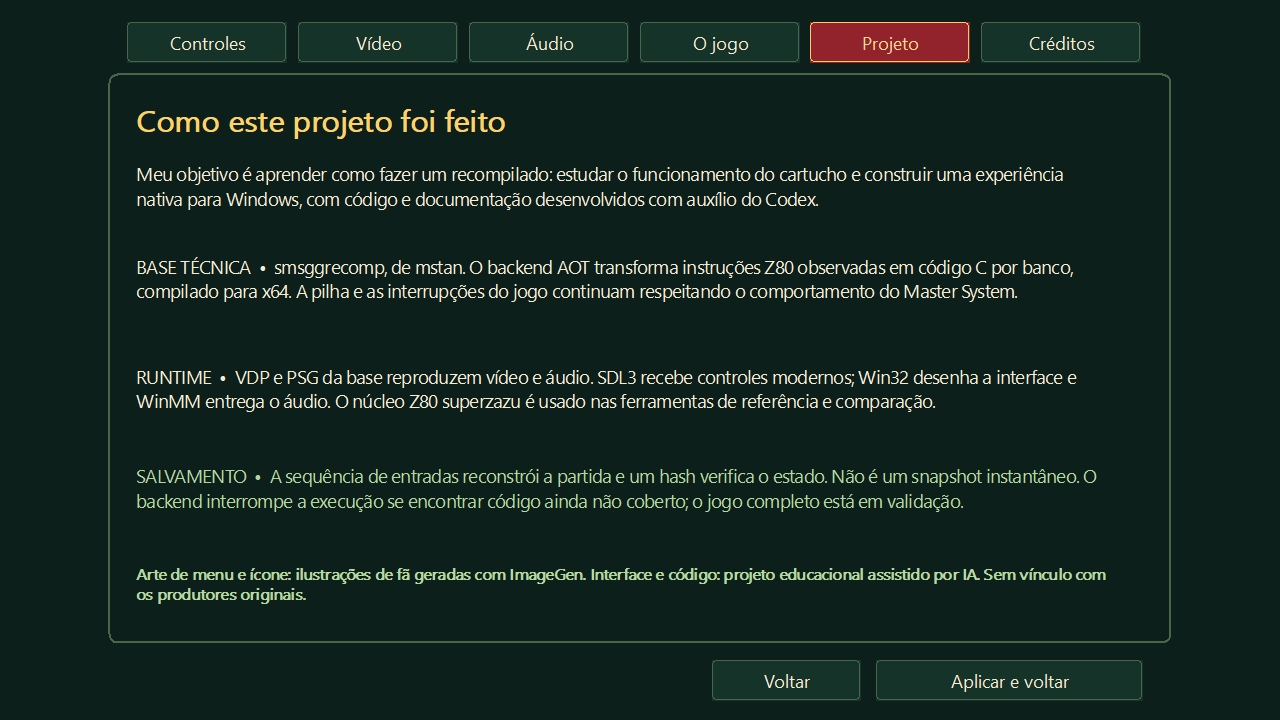
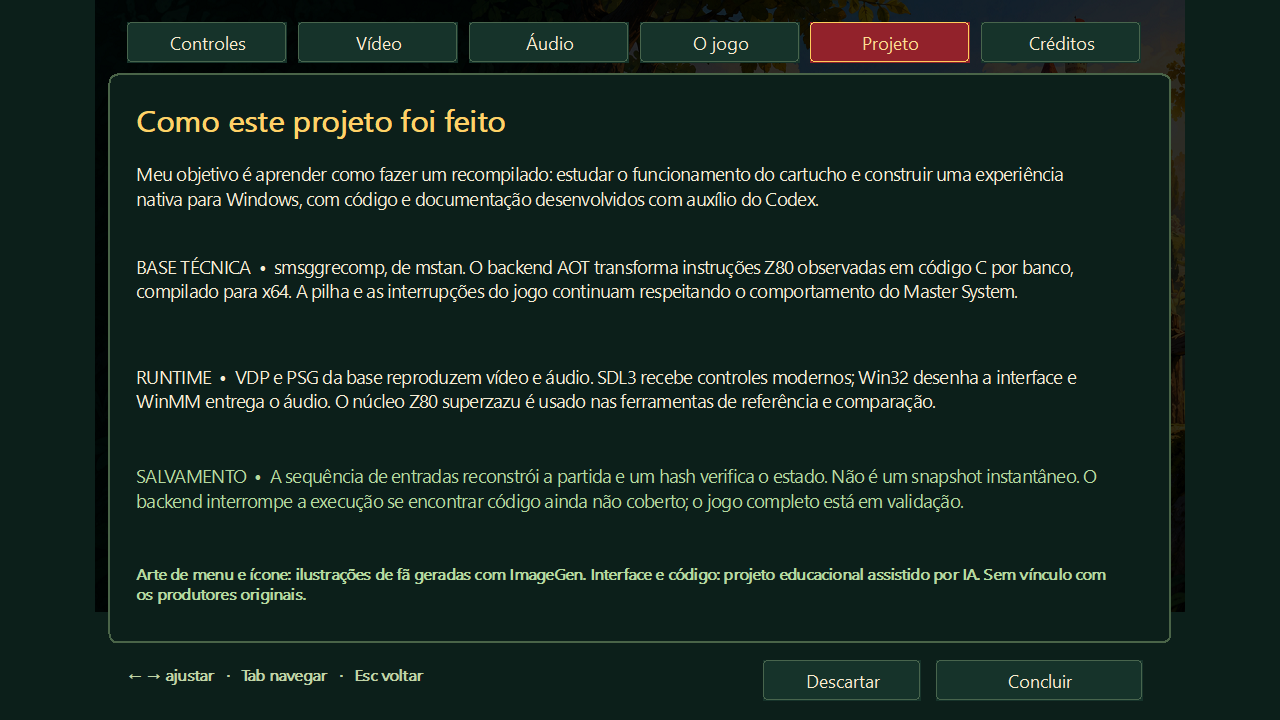
Integrate themed settings and inline selectors into the game interface

diff --git a/src/preferences.c b/src/preferences.c
@@ -1,6 +1,7 @@
 #define WIN32_LEAN_AND_MEAN
 #define COBJMACROS
 #include "preferences.h"
+#include "choice.h"
 #include <commctrl.h>
 #include <commdlg.h>
 #include <mmsystem.h>
@@ -19,7 +20,8 @@ static Preferences pending,original,*target;
 static InputDevice devices[32];static int device_count,item_count,current_tab,capture_key=-1,capture_pad=-1,release_pad;
 static HBRUSH paper;static HFONT normal,heading,caption,widget_font;static wchar_t asset_directory[32768];
 typedef struct{uint32_t *pixels;UINT w,h;BITMAPINFO info;} Picture;
-static Picture cover,advert;
+static Picture cover,advert,forest;
+static wchar_t feedback[200];
 static const wchar_t *actions[]={L"Cima",L"Baixo",L"Esquerda",L"Direita",L"Botão 1",L"Botão 2"};
 static const wchar_t *pad_actions[]={L"Botão 1",L"Botão 2",L"Pausa",L"Voltar no menu",L"Cima",L"Baixo",L"Esquerda",L"Direita"};
 static int clamp(int v,int low,int high){return v<low?low:v>high?high:v;}
@@ -74,14 +76,23 @@ RECT video_destination(int w,int h,int aspect,int scale,RECT *source){
 }
 typedef struct {int x,y,w,h,page;} Layout;
 static double ui_scale;static int ui_x,ui_y;
+static LRESULT CALLBACK hover_button(HWND hwnd,UINT msg,WPARAM wp,LPARAM lp,UINT_PTR id,DWORD_PTR data){
+    (void)id;(void)data;
+    if(msg==WM_MOUSEMOVE){if(!GetPropW(hwnd,L"hover")){SetPropW(hwnd,L"hover",(HANDLE)1);InvalidateRect(hwnd,NULL,FALSE);}TRACKMOUSEEVENT t={sizeof t,TME_LEAVE,hwnd,0};TrackMouseEvent(&t);}
+    if(msg==WM_MOUSELEAVE){RemovePropW(hwnd,L"hover");InvalidateRect(hwnd,NULL,FALSE);}
+    if(msg==WM_ERASEBKGND)return 1;
+    if(msg==WM_NCDESTROY){RemovePropW(hwnd,L"hover");RemoveWindowSubclass(hwnd,hover_button,1);}
+    return DefSubclassProc(hwnd,msg,wp,lp);
+}
 static void position_child(HWND item){Layout *l=(Layout*)GetPropW(item,L"layout");if(!l)return;
     double t=(GetTickCount()-page_started)/220.0;if(t>1)t=1;int offset=l->page?(int)(22*(1-t)*(1-t)):0;
     SetWindowPos(item,NULL,ui_x+(int)((l->x+offset)*ui_scale),ui_y+(int)(l->y*ui_scale),(int)(l->w*ui_scale),(int)(l->h*ui_scale),SWP_NOZORDER|SWP_NOACTIVATE);
 }
 static HWND child(const wchar_t *type,const wchar_t *text,DWORD style,int x,int y,int w,int h,int id,int page){
     if(!wcscmp(type,L"BUTTON"))style=(style&~15)|BS_OWNERDRAW;
-    if(!wcscmp(type,L"COMBOBOX"))style|=CBS_OWNERDRAWFIXED|CBS_HASSTRINGS;
+    if(!wcscmp(type,L"COMBOBOX")){type=L"MonicaChoice";style=WS_TABSTOP;}
     HWND item=CreateWindowW(type,text,WS_CHILD|WS_VISIBLE|style,x,y,w,h,dialog,(HMENU)(INT_PTR)id,GetModuleHandleW(NULL),NULL);
+    if(!wcscmp(type,L"BUTTON"))SetWindowSubclass(item,hover_button,1,0);
     Layout *l=malloc(sizeof *l);*l=(Layout){x,y,w,h,page};SetPropW(item,L"layout",l);SendMessageW(item,WM_SETFONT,(WPARAM)widget_font,FALSE);SetWindowTheme(item,L"",L"");position_child(item);return item;
 }
 static void discard(HWND item){free((void*)RemovePropW(item,L"layout"));DestroyWindow(item);}
@@ -94,7 +105,7 @@ void preferences_resize(void){if(!dialog)return;RECT r;GetClientRect(owner,&r);S
     for(HWND c=GetWindow(dialog,GW_CHILD);c;c=GetWindow(c,GW_HWNDNEXT)){position_child(c);SendMessageW(c,WM_SETFONT,(WPARAM)widget_font,FALSE);}DeleteObject(previous);InvalidateRect(dialog,NULL,FALSE);
 }
 static void label(const wchar_t *s,int x,int y,int w){widget(L"STATIC",s,0,x,y,w,28,0);}
-static HWND combo(int x,int y,int w,int id){return widget(L"COMBOBOX",L"",CBS_DROPDOWNLIST|WS_VSCROLL|WS_TABSTOP,x,y,w,220,id);}
+static HWND combo(int x,int y,int w,int id){return widget(L"COMBOBOX",L"",WS_TABSTOP,x,y,w,32,id);}
 static void option(HWND c,const wchar_t *s){SendMessageW(c,CB_ADDSTRING,0,(LPARAM)s);}
 static int selection(HWND c){return (int)SendMessageW(c,CB_GETCURSEL,0,0);}
 static void select_at(HWND c,int i){SendMessageW(c,CB_SETCURSEL,i,0);}
@@ -121,7 +132,7 @@ static void build_page(int page){
         label(L"BOTÕES DO CONTROLE SELECIONADO",600,304,390);
         int n=input_button_count();if(n<32)n=32;if(n>128)n=128;
         for(int i=0;i<8;i++){
-            label(pad_actions[i],600,342+i*32,135);pad_combos[i]=combo(738,337+i*32,170,200+i);wchar_t automatic[100],name[80];input_default_label(i,name,80);swprintf(automatic,100,L"Auto · %ls",name);option(pad_combos[i],automatic);
+            label(pad_actions[i],600,342+i*32,135);pad_combos[i]=combo(738,337+i*32,170,200+i);wchar_t name[80];input_default_label(i,name,80);option(pad_combos[i],name);
             for(int b=0;b<n;b++){wchar_t text[32];swprintf(text,32,L"Botão físico %d",b+1);option(pad_combos[i],text);}select_at(pad_combos[i],clamp(pending.buttons[i]+1,0,n));
             widget(L"BUTTON",L"Detectar",WS_TABSTOP,915,337+i*32,95,27,300+i);
         }
@@ -184,8 +195,8 @@ static LRESULT CALLBACK procedure(HWND hwnd,UINT msg,WPARAM wp,LPARAM lp){
     if(msg==WM_CTLCOLORSTATIC||msg==WM_CTLCOLORBTN||msg==WM_CTLCOLORLISTBOX||msg==WM_CTLCOLOREDIT){SetTextColor((HDC)wp,RGB(249,236,200));SetBkColor((HDC)wp,RGB(12,31,26));return (LRESULT)paper;}
     if(msg==WM_MEASUREITEM){((MEASUREITEMSTRUCT*)lp)->itemHeight=28;return TRUE;}
     if(msg==WM_DRAWITEM){DRAWITEMSTRUCT *d=(DRAWITEMSTRUCT*)lp;RECT r={0,0,d->rcItem.right-d->rcItem.left,d->rcItem.bottom-d->rcItem.top};HDC dc=CreateCompatibleDC(d->hDC);HBITMAP bitmap=CreateCompatibleBitmap(d->hDC,r.right,r.bottom);HGDIOBJ old=SelectObject(dc,bitmap);
-        int active=(d->itemState&(ODS_SELECTED|ODS_FOCUS))!=0;int tab=(int)d->CtlID-600;if(tab>=0&&tab<6)active=tab==current_tab;
-        HBRUSH brush=CreateSolidBrush(active?RGB(146,34,43):RGB(22,51,42));FillRect(dc,&r,brush);DeleteObject(brush);
+        int active=(d->itemState&(ODS_SELECTED|ODS_FOCUS))!=0;int hover=GetPropW(d->hwndItem,L"hover")!=NULL;int tab=(int)d->CtlID-600;if(tab>=0&&tab<6)active=tab==current_tab;
+        HBRUSH brush=CreateSolidBrush(active?RGB(146,34,43):hover?RGB(37,67,49):RGB(22,51,42));FillRect(dc,&r,brush);DeleteObject(brush);
         HPEN pen=CreatePen(PS_SOLID,1,active?RGB(255,205,91):RGB(72,101,77));HGDIOBJ op=SelectObject(dc,pen),ob=SelectObject(dc,GetStockObject(NULL_BRUSH));RoundRect(dc,0,0,r.right-1,r.bottom-1,8,8);SelectObject(dc,op);SelectObject(dc,ob);DeleteObject(pen);
         wchar_t text[512]=L"";if(d->CtlType==ODT_COMBOBOX){if(d->itemID!=(UINT)-1)SendMessageW(d->hwndItem,CB_GETLBTEXT,d->itemID,(LPARAM)text);}else GetWindowTextW(d->hwndItem,text,512);
         if(d->CtlID==42)swprintf(text,512,pending.muted?L"[✓]  Áudio silenciado":L"[  ]  Silenciar áudio");
@@ -194,7 +205,9 @@ static LRESULT CALLBACK procedure(HWND hwnd,UINT msg,WPARAM wp,LPARAM lp){
     }
     if(msg==WM_PAINT||msg==WM_PRINTCLIENT){PAINTSTRUCT ps;HDC screen=msg==WM_PAINT?BeginPaint(hwnd,&ps):(HDC)wp;RECT r;GetClientRect(hwnd,&r);HDC dc=CreateCompatibleDC(screen);HBITMAP bitmap=CreateCompatibleBitmap(screen,r.right,r.bottom);HGDIOBJ old=SelectObject(dc,bitmap);FillRect(dc,&r,paper);
         SetMapMode(dc,MM_ANISOTROPIC);SetWindowExtEx(dc,1060,700,NULL);SetViewportExtEx(dc,(int)(1060*ui_scale),(int)(700*ui_scale),NULL);SetViewportOrgEx(dc,ui_x,ui_y,NULL);
+        picture_draw(dc,&forest,0,0,1060,700);
         rounded(dc,14,72,1032,554,RGB(12,31,26),RGB(74,100,72));
+        draw_text(dc,32,646,530,36,feedback[0]?feedback:L"← → ajustar   ·   Tab navegar   ·   Esc voltar",caption,RGB(190,211,165));
         double t=(GetTickCount()-page_started)/220.0;if(t>1)t=1;SetViewportOrgEx(dc,ui_x+(int)(22*(1-t)*(1-t)*ui_scale),ui_y,NULL);
         if(current_tab==0)draw_pad(dc);
         if(current_tab==3){
@@ -241,7 +254,7 @@ static LRESULT CALLBACK procedure(HWND hwnd,UINT msg,WPARAM wp,LPARAM lp){
             else if(pressed&(INPUT_UP|INPUT_DOWN))SetFocus(GetNextDlgTabItem(hwnd,focus,!!(pressed&INPUT_UP)));
             else if(focus && (pressed&(INPUT_LEFT|INPUT_RIGHT|INPUT_A))){
                 wchar_t type[32];GetClassNameW(focus,type,32);
-                if(!wcscmp(type,L"ComboBox")){int count=(int)SendMessageW(focus,CB_GETCOUNT,0,0);int value=selection(focus);if(count>0){select_at(focus,(value+(pressed&INPUT_LEFT?count-1:1))%count);SendMessageW(hwnd,WM_COMMAND,MAKEWPARAM(GetDlgCtrlID(focus),CBN_SELCHANGE),(LPARAM)focus);InvalidateRect(focus,NULL,FALSE);}}
+                if(!wcscmp(type,L"MonicaChoice")){int count=(int)SendMessageW(focus,CB_GETCOUNT,0,0);int value=selection(focus);if(count>0){select_at(focus,(value+(pressed&INPUT_LEFT?count-1:1))%count);SendMessageW(hwnd,WM_COMMAND,MAKEWPARAM(GetDlgCtrlID(focus),CBN_SELCHANGE),(LPARAM)focus);InvalidateRect(focus,NULL,FALSE);}}
                 else if(pressed&INPUT_A)SendMessageW(focus,BM_CLICK,0,0);
             }
         }
@@ -264,11 +277,11 @@ static LRESULT CALLBACK procedure(HWND hwnd,UINT msg,WPARAM wp,LPARAM lp){
         if(id==51)ShellExecuteW(hwnd,L"open",L"https://www.smspower.org/Games/MonicaNoCasteloDoDragao-SMS",NULL,NULL,SW_SHOWNORMAL);
     }
     if(msg==WM_CLOSE){input_select(original.device);input_configure(original.buttons);input_set_deadzone(original.deadzone);closing=1;screen_started=GetTickCount();return 0;}
-    if(msg==WM_DESTROY){for(HWND c=GetWindow(hwnd,GW_CHILD);c;c=GetWindow(c,GW_HWNDNEXT))free((void*)RemovePropW(c,L"layout"));KillTimer(hwnd,1);dialog=NULL;SendMessageW(owner,PREFS_CLOSED,0,0);InvalidateRect(owner,NULL,FALSE);DeleteObject(widget_font);widget_font=NULL;DeleteObject(normal);DeleteObject(heading);DeleteObject(caption);DeleteObject(paper);free(cover.pixels);free(advert.pixels);memset(&cover,0,sizeof cover);memset(&advert,0,sizeof advert);return 0;}
+    if(msg==WM_DESTROY){for(HWND c=GetWindow(hwnd,GW_CHILD);c;c=GetWindow(c,GW_HWNDNEXT))free((void*)RemovePropW(c,L"layout"));KillTimer(hwnd,1);dialog=NULL;SendMessageW(owner,PREFS_CLOSED,0,0);InvalidateRect(owner,NULL,FALSE);DeleteObject(widget_font);widget_font=NULL;DeleteObject(normal);DeleteObject(heading);DeleteObject(caption);DeleteObject(paper);free(cover.pixels);free(advert.pixels);free(forest.pixels);memset(&forest,0,sizeof forest);memset(&cover,0,sizeof cover);memset(&advert,0,sizeof advert);return 0;}
     return DefWindowProcW(hwnd,msg,wp,lp);
 }
 void preferences_open(HWND parent,Preferences *p,int tab,const wchar_t *assets){
-    if(dialog){SetFocus(nav[current_tab]);return;}owner=parent;target=p;pending=original=*p;wcsncpy(asset_directory,assets,32767);
+    if(dialog){SetFocus(nav[current_tab]);return;}choice_register(GetModuleHandleW(NULL));feedback[0]=0;owner=parent;target=p;pending=original=*p;wcsncpy(asset_directory,assets,32767);
     paper=CreateSolidBrush(RGB(12,31,26));normal=CreateFontW(-18,0,0,0,FW_NORMAL,0,0,0,DEFAULT_CHARSET,0,0,CLEARTYPE_QUALITY,0,L"Segoe UI");heading=CreateFontW(-29,0,0,0,FW_SEMIBOLD,0,0,0,DEFAULT_CHARSET,0,0,CLEARTYPE_QUALITY,0,L"Segoe UI");caption=CreateFontW(-16,0,0,0,FW_SEMIBOLD,0,0,0,DEFAULT_CHARSET,0,0,CLEARTYPE_QUALITY,0,L"Segoe UI");
     WNDCLASSW wc={0};wc.lpfnWndProc=procedure;wc.hInstance=GetModuleHandleW(NULL);wc.lpszClassName=L"MonicaPreferences";wc.hbrBackground=paper;wc.hCursor=LoadCursor(NULL,IDC_ARROW);UnregisterClassW(wc.lpszClassName,wc.hInstance);RegisterClassW(&wc);
     RECT r;GetClientRect(parent,&r);dialog=CreateWindowExW(WS_EX_CONTROLPARENT,L"MonicaPreferences",L"Configurações da aventura",WS_CHILD|WS_CLIPCHILDREN|WS_CLIPSIBLINGS,0,0,r.right,r.bottom,parent,NULL,wc.hInstance,NULL);
@@ -276,16 +289,16 @@ void preferences_open(HWND parent,Preferences *p,int tab,const wchar_t *assets){
     preferences_resize();closing=0;
     wchar_t *names[]={L"Controles",L"Vídeo",L"Áudio",L"O jogo",L"Projeto",L"Créditos"};
     for(int i=0;i<6;i++)nav[i]=child(L"BUTTON",names[i],WS_TABSTOP,32+i*166,22,156,40,600+i,0);
-    child(L"BUTTON",L"Aplicar e voltar",WS_TABSTOP,760,642,260,40,1,0);child(L"BUTTON",L"Voltar",WS_TABSTOP,600,642,145,40,2,0);
-    picture_load(&cover,L"period-box.png");picture_load(&advert,L"period-advert.png");screen_started=GetTickCount();build_page(tab);ShowWindow(dialog,SW_SHOW);SetFocus(nav[tab]);SetTimer(dialog,1,16,NULL);
+    child(L"BUTTON",L"Concluir",WS_TABSTOP,818,642,202,40,1,0);child(L"BUTTON",L"Descartar",WS_TABSTOP,650,642,154,40,2,0);
+    picture_load(&cover,L"period-box.png");picture_load(&advert,L"period-advert.png");picture_load(&forest,L"menu-forest.png");if(forest.pixels)for(size_t i=0;i<(size_t)forest.w*forest.h;i++){uint32_t c=forest.pixels[i];forest.pixels[i]=(((c>>16)&255)*18/100<<16)|(((c>>8)&255)*18/100<<8)|((c&255)*18/100);}screen_started=GetTickCount();build_page(tab);ShowWindow(dialog,SW_SHOW);SetFocus(nav[tab]);SetTimer(dialog,1,16,NULL);
 
 }
 int preferences_route(MSG *msg){
     if(!dialog)return 0;
     if(capture_key>=0 && msg->message==WM_KEYDOWN){
         int key=(int)msg->wParam;if(key!=VK_ESCAPE){int used=0;for(int i=0;i<6;i++)if(i!=capture_key&&pending.keys[i]==key)used=1;
-            if(used || key==VK_F2||key==VK_F5||key==VK_F9||key==VK_F11){MessageBoxW(dialog,L"Essa tecla já está em uso ou é um atalho do aplicativo.",L"Mapeamento",MB_OK);return 1;}pending.keys[capture_key]=key;}
-        wchar_t name[80];key_name(pending.keys[capture_key],name);SetWindowTextW(key_buttons[capture_key],name);capture_key=-1;return 1;
+            if(used || key==VK_F2||key==VK_F5||key==VK_F9||key==VK_F11){wcscpy(feedback,L"Tecla em uso. Escolha outra para continuar.");InvalidateRect(dialog,NULL,FALSE);return 1;}pending.keys[capture_key]=key;}
+        wchar_t name[80];key_name(pending.keys[capture_key],name);SetWindowTextW(key_buttons[capture_key],name);capture_key=-1;feedback[0]=0;InvalidateRect(dialog,NULL,FALSE);return 1;
     }
     if(msg->message==WM_KEYDOWN && msg->wParam==VK_ESCAPE){SendMessageW(dialog,WM_COMMAND,2,0);return 1;}
     if(msg->message==WM_KEYDOWN && (msg->wParam==VK_LEFT||msg->wParam==VK_RIGHT)){

diff --git a/src/choice.c b/src/choice.c
@@ -1,0 +1,50 @@
+#define WIN32_LEAN_AND_MEAN
+#include "choice.h"
+#include <windowsx.h>
+#include <stdlib.h>
+#include <wchar.h>
+/* Inline value selector: no popup window and no operating-system dropdown. */
+typedef struct {wchar_t **values;int count,capacity,index,hover;HFONT font;} Choice;
+static void clear(Choice *c){for(int i=0;i<c->count;i++)free(c->values[i]);free(c->values);c->values=NULL;c->count=c->capacity=0;c->index=-1;}
+static void adjust(HWND hwnd,Choice *c,int delta){
+    if(!c->count)return;c->index=(c->index+delta+c->count)%c->count;InvalidateRect(hwnd,NULL,FALSE);
+    SendMessageW(GetParent(hwnd),WM_COMMAND,MAKEWPARAM(GetDlgCtrlID(hwnd),CBN_SELCHANGE),(LPARAM)hwnd);
+}
+static LRESULT CALLBACK procedure(HWND hwnd,UINT msg,WPARAM wp,LPARAM lp){
+    Choice *c=(Choice*)GetWindowLongPtrW(hwnd,GWLP_USERDATA);
+    if(msg==WM_CREATE){c=calloc(1,sizeof *c);if(!c)return -1;c->index=-1;SetWindowLongPtrW(hwnd,GWLP_USERDATA,(LONG_PTR)c);return 0;}
+    if(!c)return DefWindowProcW(hwnd,msg,wp,lp);
+    switch(msg){
+    case CB_ADDSTRING:{if(c->count==c->capacity){int n=c->capacity?c->capacity*2:16;void *p=realloc(c->values,n*sizeof *c->values);if(!p)return CB_ERRSPACE;c->values=p;c->capacity=n;}wchar_t *copy=_wcsdup((const wchar_t*)lp);if(!copy)return CB_ERRSPACE;c->values[c->count]=copy;return c->count++;}
+    case CB_RESETCONTENT:clear(c);InvalidateRect(hwnd,NULL,FALSE);return 0;
+    case CB_GETCOUNT:return c->count;
+    case CB_GETCURSEL:return c->index;
+    case CB_SETCURSEL:c->index=(int)wp>=0&&(int)wp<c->count?(int)wp:-1;InvalidateRect(hwnd,NULL,FALSE);return c->index;
+    case CB_GETLBTEXT:if((int)wp<0||(int)wp>=c->count)return CB_ERR;wcscpy((wchar_t*)lp,c->values[wp]);return wcslen(c->values[wp]);
+    case CB_GETLBTEXTLEN:return (int)wp>=0&&(int)wp<c->count?(LRESULT)wcslen(c->values[wp]):CB_ERR;
+    case WM_SETFONT:c->font=(HFONT)wp;InvalidateRect(hwnd,NULL,FALSE);return 0;
+    case WM_GETFONT:return (LRESULT)c->font;
+    case WM_GETDLGCODE:return DLGC_WANTARROWS|(wp==VK_RETURN?DLGC_WANTMESSAGE:0);
+    case WM_SETFOCUS:case WM_KILLFOCUS:InvalidateRect(hwnd,NULL,FALSE);return 0;
+    case WM_ERASEBKGND:return 1;
+    case WM_MOUSEMOVE:{if(!c->hover){c->hover=1;InvalidateRect(hwnd,NULL,FALSE);}TRACKMOUSEEVENT t={sizeof t,TME_LEAVE,hwnd,0};TrackMouseEvent(&t);return 0;}
+    case WM_MOUSELEAVE:c->hover=0;InvalidateRect(hwnd,NULL,FALSE);return 0;
+    case WM_LBUTTONDOWN:{SetFocus(hwnd);RECT r;GetClientRect(hwnd,&r);adjust(hwnd,c,GET_X_LPARAM(lp)<r.right/3?-1:1);return 0;}
+    case WM_MOUSEWHEEL:adjust(hwnd,c,GET_WHEEL_DELTA_WPARAM(wp)>0?-1:1);return 0;
+    case WM_KEYDOWN:if(wp==VK_LEFT||wp==VK_UP){adjust(hwnd,c,-1);return 0;}if(wp==VK_RIGHT||wp==VK_DOWN||wp==VK_RETURN||wp==VK_SPACE){adjust(hwnd,c,1);return 0;}break;
+    case WM_PAINT:case WM_PRINTCLIENT:{
+        PAINTSTRUCT ps;HDC target=msg==WM_PAINT?BeginPaint(hwnd,&ps):(HDC)wp;RECT r;GetClientRect(hwnd,&r);if(r.right<1||r.bottom<1){if(msg==WM_PAINT)EndPaint(hwnd,&ps);return 0;}
+        HDC dc=CreateCompatibleDC(target);HBITMAP bitmap=CreateCompatibleBitmap(target,r.right,r.bottom);HGDIOBJ old=SelectObject(dc,bitmap);int focus=GetFocus()==hwnd;
+        HBRUSH brush=CreateSolidBrush(RGB(12,31,26));FillRect(dc,&r,brush);DeleteObject(brush);
+        brush=CreateSolidBrush(c->hover||focus?RGB(36,67,52):RGB(21,47,38));HPEN pen=CreatePen(PS_SOLID,1,focus?RGB(255,205,91):RGB(76,104,77));HGDIOBJ ob=SelectObject(dc,brush),op=SelectObject(dc,pen);
+        RoundRect(dc,0,0,r.right-1,r.bottom-1,12,12);SelectObject(dc,op);SelectObject(dc,ob);DeleteObject(pen);DeleteObject(brush);
+        SelectObject(dc,c->font);SetBkMode(dc,TRANSPARENT);SetTextColor(dc,RGB(246,235,206));int arrow=r.bottom*3/4;if(arrow<18)arrow=18;
+        RECT text={arrow,0,r.right-arrow,r.bottom};if(c->index>=0&&c->index<c->count)DrawTextW(dc,c->values[c->index],-1,&text,DT_SINGLELINE|DT_VCENTER|DT_CENTER|DT_END_ELLIPSIS);
+        SetTextColor(dc,focus||c->hover?RGB(255,205,91):RGB(155,183,144));RECT left={0,0,arrow,r.bottom},right={r.right-arrow,0,r.right,r.bottom};DrawTextW(dc,L"‹",-1,&left,DT_CENTER|DT_VCENTER|DT_SINGLELINE);DrawTextW(dc,L"›",-1,&right,DT_CENTER|DT_VCENTER|DT_SINGLELINE);
+        BitBlt(target,0,0,r.right,r.bottom,dc,0,0,SRCCOPY);SelectObject(dc,old);DeleteObject(bitmap);DeleteDC(dc);if(msg==WM_PAINT)EndPaint(hwnd,&ps);return 0;
+    }
+    case WM_NCDESTROY:clear(c);free(c);SetWindowLongPtrW(hwnd,GWLP_USERDATA,0);break;
+    }
+    return DefWindowProcW(hwnd,msg,wp,lp);
+}
+void choice_register(HINSTANCE instance){WNDCLASSW wc={0};wc.lpfnWndProc=procedure;wc.hInstance=instance;wc.lpszClassName=L"MonicaChoice";wc.hCursor=LoadCursor(NULL,IDC_HAND);RegisterClassW(&wc);}

diff --git a/src/app.c b/src/app.c
@@ -45,11 +45,19 @@ static HWAVEOUT audio_device;
 static WAVEHDR audio_headers[8];
 static int16_t audio_buffers[8][4096];
 static int audio_index;
+static wchar_t notification[600];
+static ULONGLONG notification_until;
 static uint64_t audio_phase;
 static int64_t audio_sum[2];
 static unsigned audio_samples;
 
-static void message(const wchar_t *text){ MessageBoxW(window,text,L"Mônica Recomp — protótipo",MB_OK|MB_ICONINFORMATION); }
+static void message(const wchar_t *text){wcsncpy(notification,text,599);notification[599]=0;notification_until=GetTickCount64()+9000;InvalidateRect(window,NULL,FALSE);}
+static void draw_notification(HDC dc,int w,int h){
+    if(!notification[0] || GetTickCount64()>=notification_until)return;
+    RECT r={(!running||paused)?w*45/100:32,h-146,w-32,h-42};HBRUSH brush=CreateSolidBrush(RGB(12,31,26));HPEN pen=CreatePen(PS_SOLID,1,RGB(255,205,91));HGDIOBJ ob=SelectObject(dc,brush),op=SelectObject(dc,pen);
+    RoundRect(dc,r.left,r.top,r.right,r.bottom,14,14);SelectObject(dc,ob);SelectObject(dc,op);DeleteObject(brush);DeleteObject(pen);
+    HFONT old=SelectObject(dc,font);SetBkMode(dc,TRANSPARENT);SetTextColor(dc,RGB(255,242,208));InflateRect(&r,-18,-12);DrawTextW(dc,notification,-1,&r,DT_LEFT|DT_WORDBREAK|DT_END_ELLIPSIS);SelectObject(dc,old);
+}
 static void save_settings(void){
     WritePrivateProfileStringW(L"app",L"rom",rom_path,ini);
     cfg.fullscreen=full_screen;preferences_save(&cfg,ini);
@@ -110,7 +118,7 @@ static uint8_t input_mask(void){
 }
 static void paint(HDC dc,RECT client){
     int w=client.right,h=client.bottom;
-    if(!running || paused){theme_render(dc,w,h,paused,framebuffer,rom_ready,slot);return;}
+    if(!running || paused){theme_render(dc,w,h,paused,framebuffer,rom_ready,slot);draw_notification(dc,w,h);return;}
     FillRect(dc,&client,background);
     RECT source,dest=video_destination(w,h,cfg.aspect,cfg.scale,&source);
     if(dest.right<=dest.left||dest.bottom<=dest.top)return;
@@ -124,6 +132,7 @@ static void paint(HDC dc,RECT client){
     BITMAPINFO info={0};info.bmiHeader.biSize=sizeof(BITMAPINFOHEADER);info.bmiHeader.biWidth=256;info.bmiHeader.biHeight=-192;info.bmiHeader.biPlanes=1;info.bmiHeader.biBitCount=32;
     SetStretchBltMode(dc,cfg.filter?HALFTONE:COLORONCOLOR);
     StretchDIBits(dc,dest.left,dest.top,dest.right-dest.left,dest.bottom-dest.top,source.left,source.top,source.right-source.left,source.bottom-source.top,display,&info,DIB_RGB_COLORS,SRCCOPY);
+    draw_notification(dc,w,h);
 }
 static int validate_rom(const wchar_t *path){
     FILE *f=_wfopen(path,L"rb");if(!f)return 0;uint8_t *data=malloc(MONICA_ROM_SIZE);if(!data){fclose(f);return 0;}

diff --git a/src/system_verify.c b/src/system_verify.c
@@ -1,4 +1,5 @@
 #include "preferences.h"
+#include "choice.h"
 #include <SDL3/SDL.h>
 #include <stdio.h>
 #include <string.h>
@@ -7,6 +8,16 @@
 static void select_virtual(SDL_JoystickID id){InputDevice d[32];int n=input_devices(d,32);for(int i=0;i<n;i++)if(d[i].id==id){input_select(d[i].key);input_update();return;}}
 int wmain(int argc,wchar_t **argv){
     CHECK(argc==2);CHECK(input_init());
+    choice_register(GetModuleHandleW(NULL));
+    HWND host=CreateWindowW(L"STATIC",L"test",WS_OVERLAPPED,0,0,500,200,NULL,NULL,GetModuleHandleW(NULL),NULL);
+    HWND choice=CreateWindowW(L"MonicaChoice",L"",WS_CHILD,0,0,300,32,host,NULL,GetModuleHandleW(NULL),NULL);
+    CHECK(host&&choice);CHECK((GetWindowLongW(choice,GWL_STYLE)&WS_POPUP)==0);
+    SendMessageW(choice,CB_ADDSTRING,0,(LPARAM)L"Janela");SendMessageW(choice,CB_ADDSTRING,0,(LPARAM)L"Tela cheia");
+    SendMessageW(choice,CB_SETCURSEL,0,0);SendMessageW(choice,WM_KEYDOWN,VK_RIGHT,0);CHECK(SendMessageW(choice,CB_GETCURSEL,0,0)==1);
+    SendMessageW(choice,WM_KEYDOWN,VK_RIGHT,0);CHECK(SendMessageW(choice,CB_GETCURSEL,0,0)==0);
+    SendMessageW(choice,WM_KEYDOWN,VK_LEFT,0);wchar_t selected[64];SendMessageW(choice,CB_GETLBTEXT,1,(LPARAM)selected);CHECK(!wcscmp(selected,L"Tela cheia"));
+    SendMessageW(choice,CB_RESETCONTENT,0,0);CHECK(SendMessageW(choice,CB_GETCOUNT,0,0)==0&&SendMessageW(choice,CB_GETCURSEL,0,0)==-1);
+    DestroyWindow(host);puts("PASS inline selector: keyboard changes, wrap, Unicode values, reset, no popup style");
     SDL_VirtualJoystickDesc desc;SDL_INIT_INTERFACE(&desc);desc.type=SDL_JOYSTICK_TYPE_UNKNOWN;desc.naxes=2;desc.nbuttons=12;desc.nhats=1;desc.vendor_id=0xCAFE;desc.product_id=1;desc.name="Monica test A";
     SDL_JoystickID a=SDL_AttachVirtualJoystick(&desc);CHECK(a!=0);desc.product_id=2;desc.name="Monica test B";SDL_JoystickID b=SDL_AttachVirtualJoystick(&desc);CHECK(b!=0);
     SDL_Joystick *ja=SDL_OpenJoystick(a),*jb=SDL_OpenJoystick(b);CHECK(ja&&jb);select_virtual(b);

diff --git a/src/theme.c b/src/theme.c
@@ -71,7 +71,7 @@ void theme_render(HDC dc,int w,int h,int paused,const uint32_t *fb,int ready,int
     }else word(canvas,75,78,620,110,L"MÔNICA",title,cream,DT_LEFT|DT_SINGLELINE);
     word(canvas,80,64,500,26,L"RECOMPILADO  •  PROJETO DE ESTUDO",small,gold,DT_LEFT|DT_SINGLELINE);
     word(canvas,82,224,470,32,paused?L"Um respiro antes da próxima aventura.":L"O castelo espera por você.",label,RGB(193,214,189),DT_LEFT|DT_SINGLELINE);
-    word(canvas,991,35,250,24,L"PROJETO DE ESTUDO  /  0.4.2",small,RGB(252,245,213),DT_RIGHT|DT_SINGLELINE);
+    word(canvas,991,35,250,24,L"PROJETO DE ESTUDO  /  0.5",small,RGB(252,245,213),DT_RIGHT|DT_SINGLELINE);
     if(paused && fb){
         RECT border={sx(797),sy(333),sx(1211),sy(649)};fill(canvas,border,RGB(239,198,106));
         BITMAPINFO info={0};info.bmiHeader.biSize=sizeof(BITMAPINFOHEADER);info.bmiHeader.biWidth=256;info.bmiHeader.biHeight=-192;info.bmiHeader.biPlanes=1;info.bmiHeader.biBitCount=32;

diff --git a/src/choice.h b/src/choice.h
@@ -1,0 +1,3 @@
+#pragma once
+#include <windows.h>
+void choice_register(HINSTANCE instance);

diff --git a/README.md b/README.md
@@ -8,9 +8,9 @@ Um projeto de estudo de recompilação estática de um jogo de Master System par
 
 ![Menu](docs/images/menu.png)
 
-## Interface 0.4.2
+## Interface 0.5
 
-As configurações agora são páginas dentro da janela principal, com abas de Controles, Vídeo, Áudio, O jogo, Projeto e Créditos. A barra de menus do Windows foi removida. Os botões do menu ficam ocultos enquanto essas páginas estão abertas. Há transições de página, destaque suave de seleção, logo fornecida pelo usuário e ícone incorporado ao executável.
+As configurações agora são páginas dentro da janela principal, com abas de Controles, Vídeo, Áudio, O jogo, Projeto e Créditos. A barra de menus do Windows foi removida. Os botões do menu ficam ocultos enquanto essas páginas estão abertas. Há transições de página, destaque de seleção, logo fornecida pelo usuário e ícone incorporado ao executável. Os seletores de valores são componentes próprios, ajustados por setas, mouse ou controle, sem listas do Windows em janelas separadas. Avisos de mapeamento e notificações são exibidos dentro da interface. Concluir aplica as alterações; Descartar preserva a configuração anterior.
 
 ![Como o projeto foi feito](docs/images/projeto.png)
 
@@ -62,7 +62,7 @@ Requer Windows x64, PowerShell, Git, CMake e Clang/MinGW com `mingw32-make` no P
 ./test-local.ps1 -RomPath 'C:/caminho/Monica no Castelo do Dragao (Brazil).sms'
 ```
 
-O script prepara versões fixas das dependências, aplica os patches, gera o C a partir da ROM e compila localmente. A primeira preparação pode demorar vários minutos. O executável fica em **local-bin/v0.4.2/MonicaRecomp-v0.4.2.exe**; mantenha `SDL3.dll` e `assets` junto dele.
+O script prepara versões fixas das dependências, aplica os patches, gera o C a partir da ROM e compila localmente. A primeira preparação pode demorar vários minutos. O executável fica em **local-bin/v0.5/MonicaRecomp-v0.5.exe**; mantenha `SDL3.dll` e `assets` junto dele.
 
[1 lines of base64/hex data omitted]
 

diff --git a/docs/VALIDATION.md b/docs/VALIDATION.md
@@ -1,4 +1,4 @@
-# Validação da versão 0.4.2
+# Validação da versão 0.5
 
 ## Testes automatizados aprovados
 
@@ -24,3 +24,7 @@ O teste com joysticks virtuais não comprova todos os controles físicos. Foi ob
 O intérprete superzazu e o AOT compartilham barramento, VDP e PSG. A comparação verifica diferenças da execução da CPU no roteiro; ela não comprova exatidão do runtime em relação ao console. Ainda faltam comparação com emulador independente/hardware e validação do jogo completo, do Windows 10 real e de mais controles físicos.
 
 A interface oferece enquadramento sem esticar, mas não câmera panorâmica com novos mapas visíveis. Não há snapshot instantâneo ou suporte FM implementado nesta versão.
+
+## Seletores integrados
+
+O componente próprio foi testado para mudança por teclado, passagem entre o primeiro e o último valor, leitura Unicode, limpeza de opções e ausência do estilo de janela popup. As seis páginas foram renderizadas pelo próprio aplicativo; Controles também foi conferida em 1024×640. Os testes de navegação e salvamento foram repetidos na revisão 0.5.
